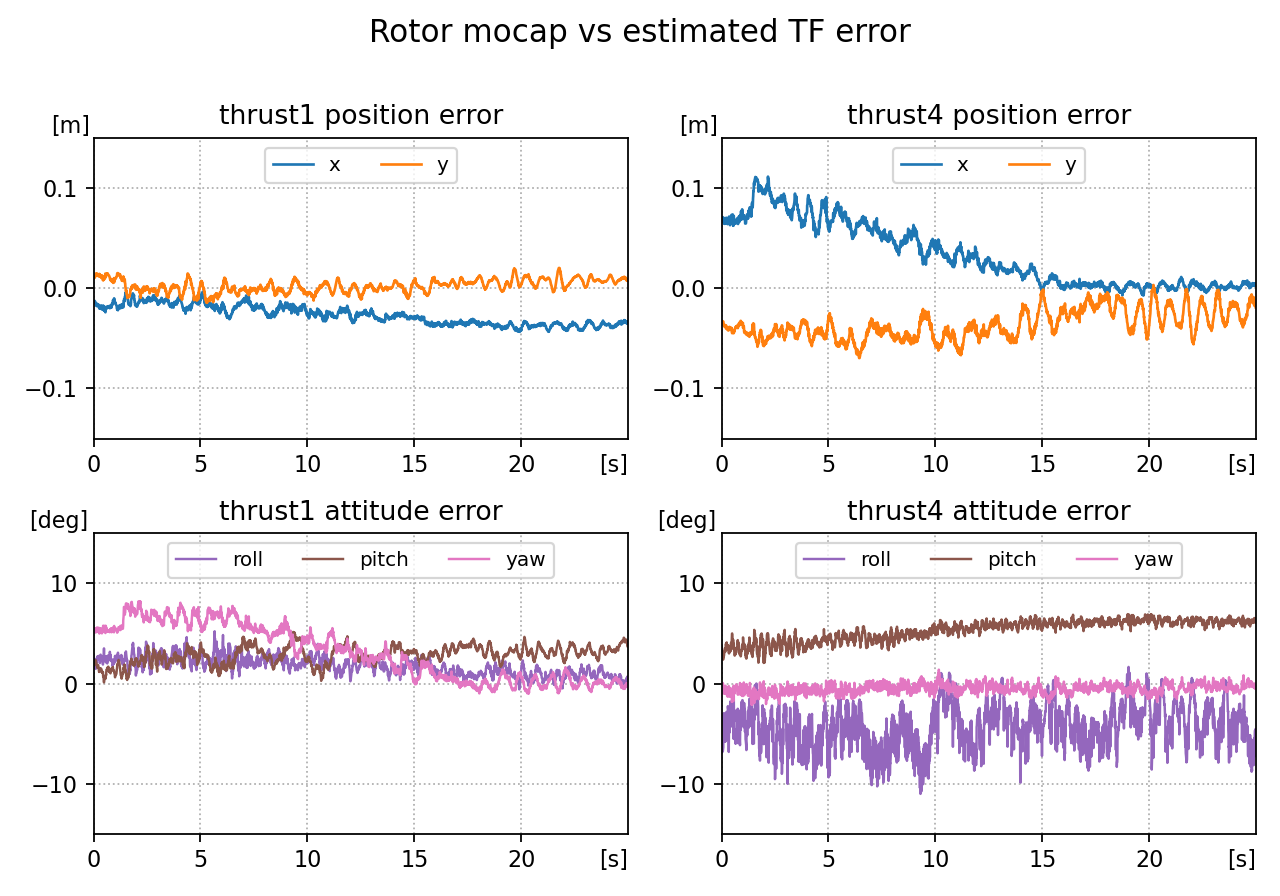
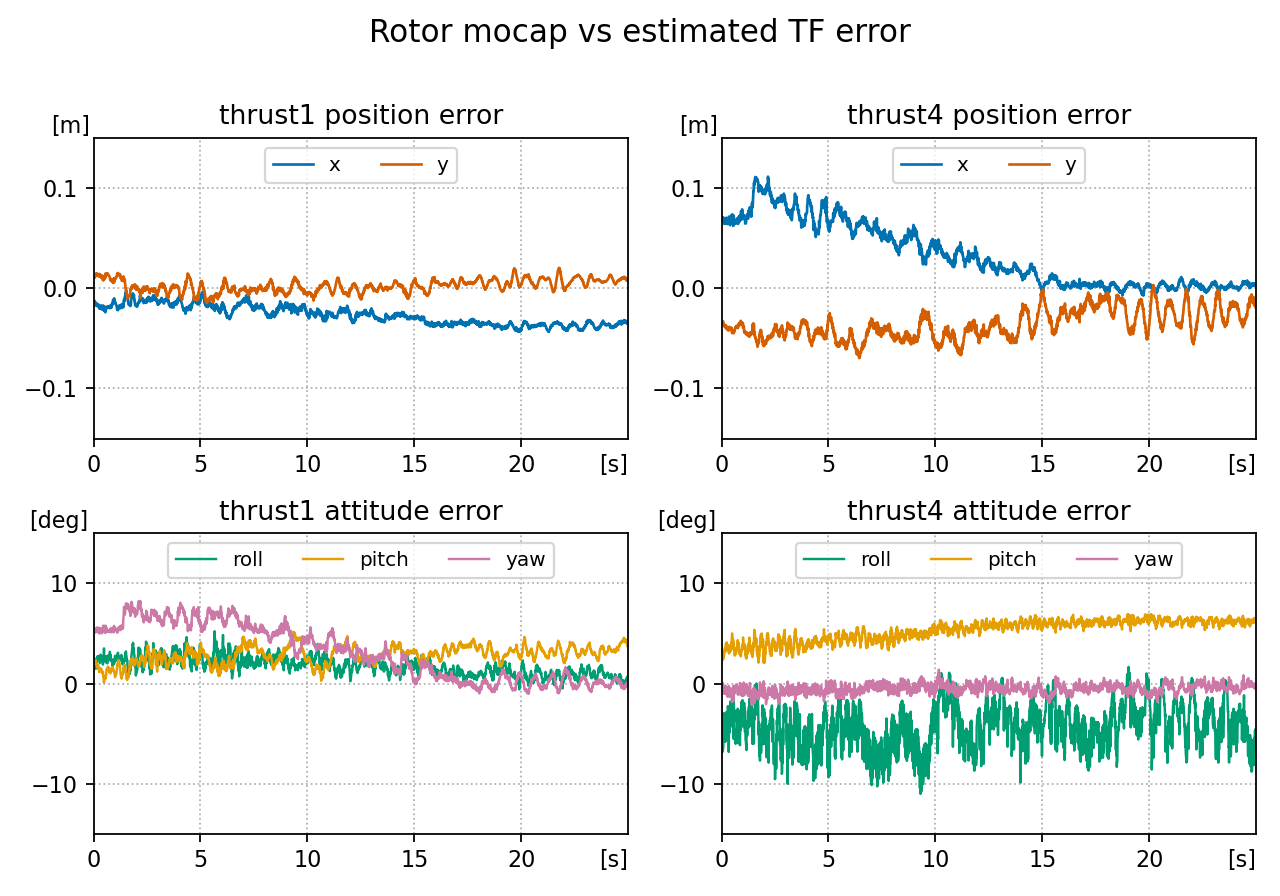
add cog pos error

diff --git a/robots/hydrus/scripts/plot/plot_cog_error.py b/robots/hydrus/scripts/plot/plot_cog_error.py
@@ -1,0 +1,272 @@
+#!/usr/bin/env python3
+# -*- coding: utf-8 -*-
+
+import argparse
+import csv
+import math
+import os
+
+os.environ.setdefault("MPLCONFIGDIR", "/tmp/matplotlib")
+
+import matplotlib
+
+if not os.environ.get("DISPLAY"):
+    matplotlib.use("Agg")
+
+import matplotlib.pyplot as plt
+import numpy as np
+import rosbag
+
+
+AXES = ("x", "y", "z", "roll", "pitch", "yaw")
+POSITION_AXES = ("x", "y", "z")
+ATTITUDE_AXES = ("roll", "pitch", "yaw")
+
+
+def normalize_name(name):
+    return str(name).strip().lstrip("/")
+
+
+def extract_stamp(msg, fallback_time):
+    header = getattr(msg, "header", None)
+    if header is not None and hasattr(header, "stamp"):
+        stamp = header.stamp.to_sec()
+        if stamp > 0.0:
+            return stamp
+    return fallback_time
+
+
+def find_trigger_window(bag_path, trigger_topic, ignore_seconds, plot_duration):
+    with rosbag.Bag(bag_path, "r") as bag:
+        bag_start = bag.get_start_time()
+        bag_end = bag.get_end_time()
+        search_start = bag_start + ignore_seconds
+
+        trigger_time = None
+        for _, msg, bag_time in bag.read_messages(topics=[trigger_topic]):
+            sample_time = extract_stamp(msg, bag_time.to_sec())
+            if sample_time >= search_start:
+                trigger_time = sample_time
+                break
+
+    if trigger_time is None:
+        raise RuntimeError(
+            "No message on '{}' was found after {:.1f} seconds from bag start.".format(
+                trigger_topic, ignore_seconds
+            )
+        )
+
+    window_end = trigger_time + plot_duration
+    if bag_end < window_end:
+        raise RuntimeError(
+            "Bag ends at {:.3f}, but {:.1f} seconds are required after trigger time {:.3f}.".format(
+                bag_end, plot_duration, trigger_time
+            )
+        )
+
+    return trigger_time, window_end
+
+
+def init_series():
+    series = {"time": []}
+    for axis in AXES:
+        series[axis] = []
+    return series
+
+
+def collect_pid_error_series(bag_path, pid_topic, window_start, window_end):
+    series = init_series()
+
+    with rosbag.Bag(bag_path, "r") as bag:
+        for _, msg, bag_time in bag.read_messages(topics=[pid_topic]):
+            sample_time = extract_stamp(msg, bag_time.to_sec())
+            if sample_time < window_start:
+                continue
+            if sample_time > window_end:
+                break
+
+            series["time"].append(sample_time)
+            for axis in AXES:
+                series[axis].append(getattr(getattr(msg, axis), "err_p"))
+
+    return series
+
+
+def summarize_series(series):
+    summary = []
+    for axis in AXES:
+        values = np.asarray(series[axis], dtype=float)
+        if len(values) == 0:
+            continue
+        summary.append(
+            (
+                axis,
+                len(values),
+                float(np.mean(values)),
+                math.sqrt(float(np.mean(values ** 2))),
+                float(np.max(np.abs(values))),
+            )
+        )
+    return summary
+
+
+def print_summary(series):
+    summary = summarize_series(series)
+    if not summary:
+        print("No PID error samples were found.")
+        return
+
+    print(
+        "{:<8s} {:>7s} {:>12s} {:>12s} {:>12s}".format(
+            "axis", "samples", "mean_err_p", "rms_err_p", "max_abs_err"
+        )
+    )
+    for row in summary:
+        print("{:<8s} {:>7d} {:>12.5f} {:>12.5f} {:>12.5f}".format(*row))
+
+
+def write_csv(csv_path, series):
+    with open(csv_path, "w", newline="") as f:
+        writer = csv.writer(f)
+        writer.writerow(["time", "x_err_p", "y_err_p", "z_err_p", "roll_err_p", "pitch_err_p", "yaw_err_p"])
+        sample_count = len(series["time"])
+        for i in range(sample_count):
+            writer.writerow(
+                [
+                    series["time"][i],
+                    series["x"][i],
+                    series["y"][i],
+                    series["z"][i],
+                    series["roll"][i],
+                    series["pitch"][i],
+                    series["yaw"][i],
+                ]
+            )
+
+
+def plot_series(series, output_path, plot_duration):
+    if not series["time"]:
+        raise RuntimeError("Nothing to plot.")
+
+    t = np.asarray(series["time"], dtype=float)
+    t = t - t[0]
+
+    fig, axes = plt.subplots(2, 1, figsize=(9, 6.5), squeeze=False)
+    fig.suptitle("COG pose error from debug/pose/pid", fontsize=14)
+
+    ax_pos = axes[0][0]
+    ax_att = axes[1][0]
+
+    ax_pos.plot(t, series["x"], label="x", color="#1f77b4", linewidth=1.2)
+    ax_pos.plot(t, series["y"], label="y", color="#ff7f0e", linewidth=1.2)
+    ax_pos.plot(t, series["z"], label="z", color="#2ca02c", linewidth=1.2)
+    ax_pos.set_title("Position error")
+    ax_pos.set_xlim(0, plot_duration)
+    ax_pos.set_ylabel("[m]")
+    ax_pos.grid(True, linestyle=":", linewidth=0.8)
+    ax_pos.legend(loc="upper right", ncol=3, fontsize=9)
+
+    ax_att.plot(t, series["roll"], label="roll", color="#9467bd", linewidth=1.2)
+    ax_att.plot(t, series["pitch"], label="pitch", color="#8c564b", linewidth=1.2)
+    ax_att.plot(t, series["yaw"], label="yaw", color="#e377c2", linewidth=1.2)
+    ax_att.set_title("Attitude error")
+    ax_att.set_xlim(0, plot_duration)
+    ax_att.set_xlabel("[s]")
+    ax_att.set_ylabel("[rad]")
+    ax_att.grid(True, linestyle=":", linewidth=0.8)
+    ax_att.legend(loc="upper right", ncol=3, fontsize=9)
+
+    fig.tight_layout(rect=[0.0, 0.0, 1.0, 0.97])
+    fig.savefig(output_path, dpi=160)
+    plt.close(fig)
+
+
+def parse_args():
+    parser = argparse.ArgumentParser(
+        description=(
+            "Plot COG position / attitude error directly from /<namespace>/debug/pose/pid "
+            "using each axis's err_p field."
+        )
+    )
+    parser.add_argument("bag", help="Input rosbag path")
+    parser.add_argument("--namespace", default="hydrus", help="Robot namespace, e.g. hydrus")
+    parser.add_argument(
+        "--ignore-seconds",
+        type=float,
+        default=30.0,
+        help="Ignore the first N seconds from bag start before searching the trigger topic",
+    )
+    parser.add_argument(
+        "--plot-duration",
+        type=float,
+        default=25.0,
+        help="Plot this many seconds from the first trigger message after --ignore-seconds",
+    )
+    parser.add_argument(
+        "--trigger-topic",
+        help="Trigger topic. Default: /<namespace>/soft_joint_reference_interp",
+    )
+    parser.add_argument(
+        "--pid-topic",
+        help="PID debug topic. Default: /<namespace>/debug/pose/pid",
+    )
+    parser.add_argument(
+        "--output",
+        help="Output PNG path. Default: <bag_basename>_rotor_mocap_estimation_error.png",
+    )
+    parser.add_argument("--csv", help="Optional CSV path for per-sample error export")
+    return parser.parse_args()
+
+
+def main():
+    args = parse_args()
+
+    bag_path = os.path.abspath(args.bag)
+    bag_stem = os.path.splitext(os.path.basename(bag_path))[0]
+    namespace = normalize_name(args.namespace)
+    trigger_topic = args.trigger_topic or "/{}/soft_joint_reference_interp".format(namespace)
+    pid_topic = args.pid_topic or "/{}/debug/pose/pid".format(namespace)
+
+    window_start, window_end = find_trigger_window(
+        bag_path=bag_path,
+        trigger_topic=trigger_topic,
+        ignore_seconds=args.ignore_seconds,
+        plot_duration=args.plot_duration,
+    )
+
+    output_path = args.output or os.path.join(
+        os.path.dirname(bag_path), "{}_rotor_mocap_estimation_error.png".format(bag_stem)
+    )
+
+    series = collect_pid_error_series(
+        bag_path=bag_path,
+        pid_topic=pid_topic,
+        window_start=window_start,
+        window_end=window_end,
+    )
+
+    if not series["time"]:
+        raise RuntimeError(
+            "No PID error samples were found on '{}' in the requested {:.1f}-second window after trigger.".format(
+                pid_topic, args.plot_duration
+            )
+        )
+
+    plot_series(series, output_path, args.plot_duration)
+    print_summary(series)
+    print(
+        "Trigger topic '{}' at {:.3f}s, plotting [{:.3f}, {:.3f}]".format(
+            trigger_topic, window_start, window_start, window_end
+        )
+    )
+    print("PID topic: {}".format(pid_topic))
+    print("Saved plot to {}".format(output_path))
+
+    if args.csv:
+        csv_path = os.path.abspath(args.csv)
+        write_csv(csv_path, series)
+        print("Saved CSV to {}".format(csv_path))
+
+
+if __name__ == "__main__":
+    main()

diff --git a/robots/hydrus/scripts/plot/plot_rotor_mocap_estimation_error.py b/robots/hydrus/scripts/plot/plot_rotor_mocap_estimation_error.py
@@ -471,8 +471,8 @@ def plot_series(series, output_path):
         ax_xy = axes[0][col]
         ax_att = axes[1][col]
 
-        ax_xy.plot(t, values["dx"], label="x", color="#1f77b4", linewidth=1.2)
-        ax_xy.plot(t, values["dy"], label="y", color="#ff7f0e", linewidth=1.2)
+        ax_xy.plot(t, values["dx"], label="x", color="#0072B2", linewidth=1.2)
+        ax_xy.plot(t, values["dy"], label="y", color="#D55E00", linewidth=1.2)
         # ax_xy.plot(t, values["dxy"], label="xy norm in mocap frame", color="#2ca02c", linewidth=1.4, linestyle="--")
         ax_xy.set_title("{} position error".format(rotor_name))
         ax_xy.set_xlim(0, 25)
@@ -484,9 +484,9 @@ def plot_series(series, output_path):
         ax_xy.grid(True, linestyle=":", linewidth=0.8)
         ax_xy.legend(loc="upper center", ncol=2, fontsize=9)
 
-        ax_att.plot(t, values["roll_deg"], label="roll", color="#9467bd", linewidth=1.1)
-        ax_att.plot(t, values["pitch_deg"], label="pitch", color="#8c564b", linewidth=1.1)
-        ax_att.plot(t, values["yaw_deg"], label="yaw", color="#e377c2", linewidth=1.1)
+        ax_att.plot(t, values["roll_deg"], label="roll", color="#009E73", linewidth=1.1)
+        ax_att.plot(t, values["pitch_deg"], label="pitch", color="#E69F00", linewidth=1.1)
+        ax_att.plot(t, values["yaw_deg"], label="yaw", color="#CC79A7", linewidth=1.1)
         # ax_att.plot(t, values["angle_deg"], label="angle norm", color="#d62728", linewidth=1.4, linestyle="--")
         ax_att.set_title("{} attitude error".format(rotor_name))
         ax_att.set_xlim(0, 25)
